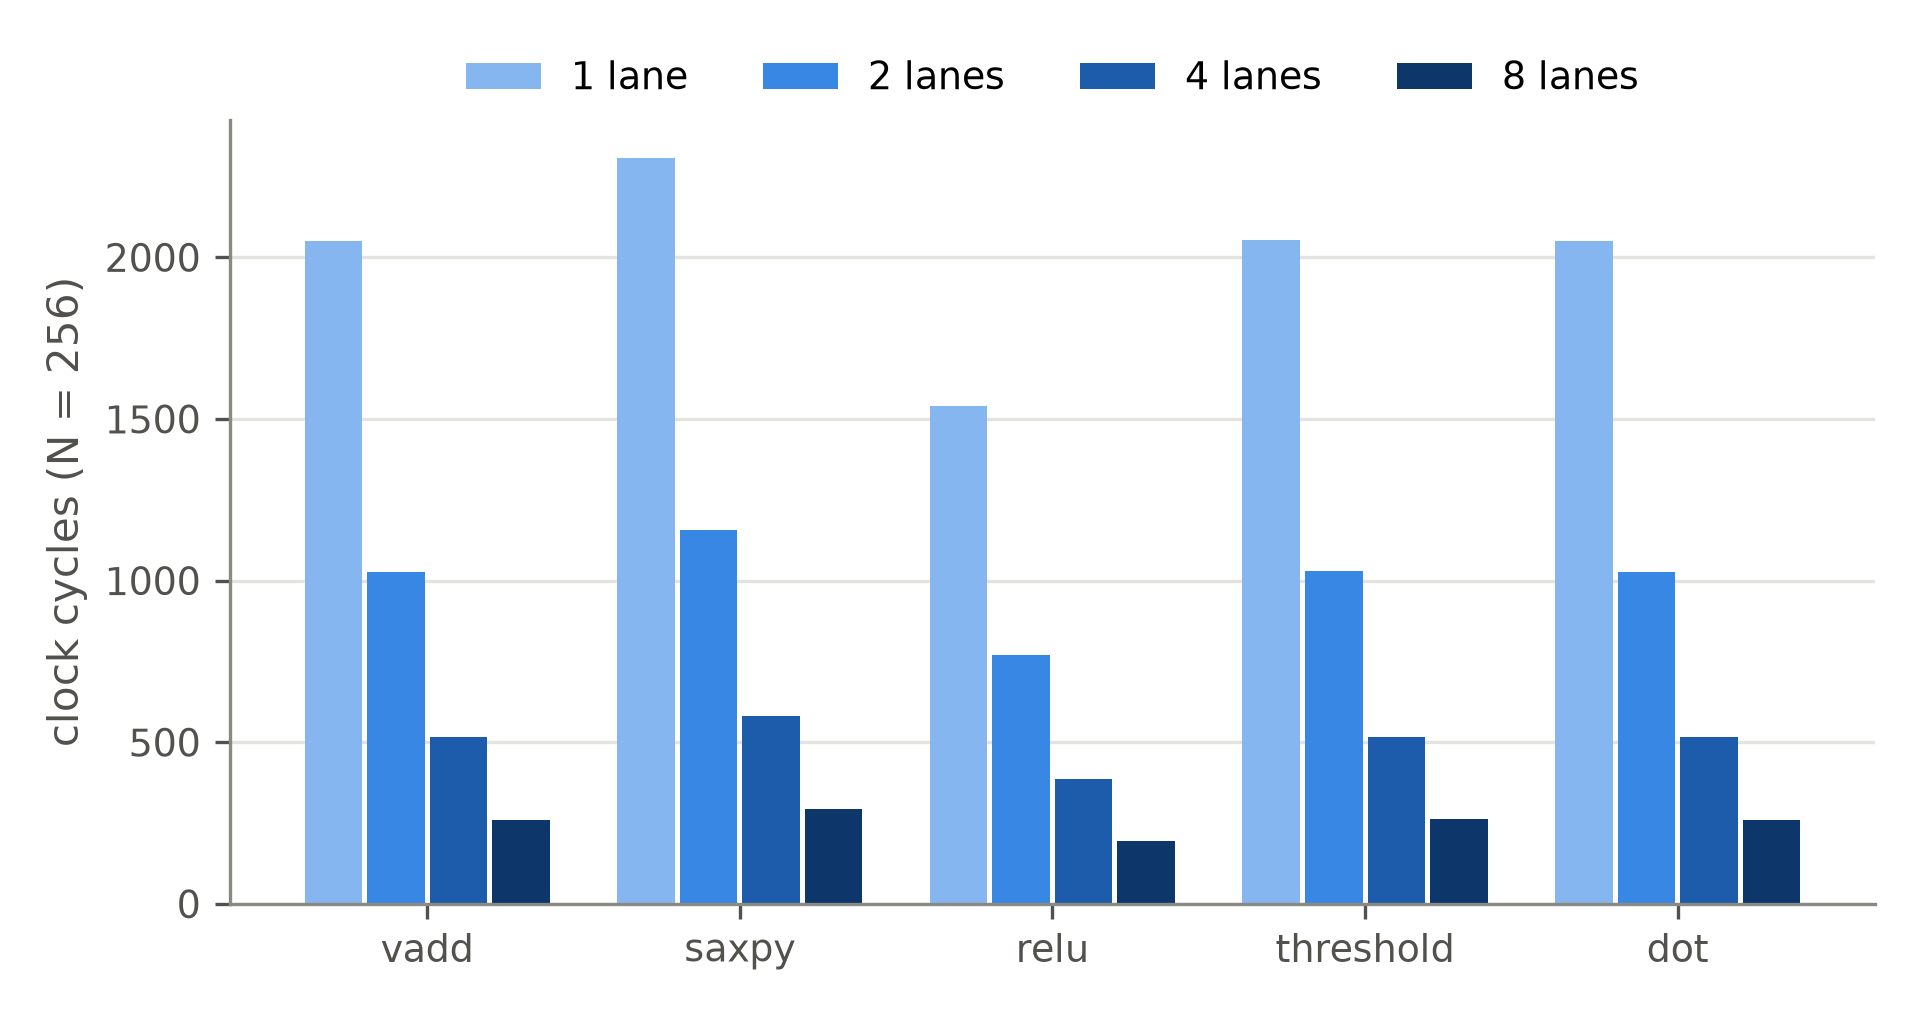
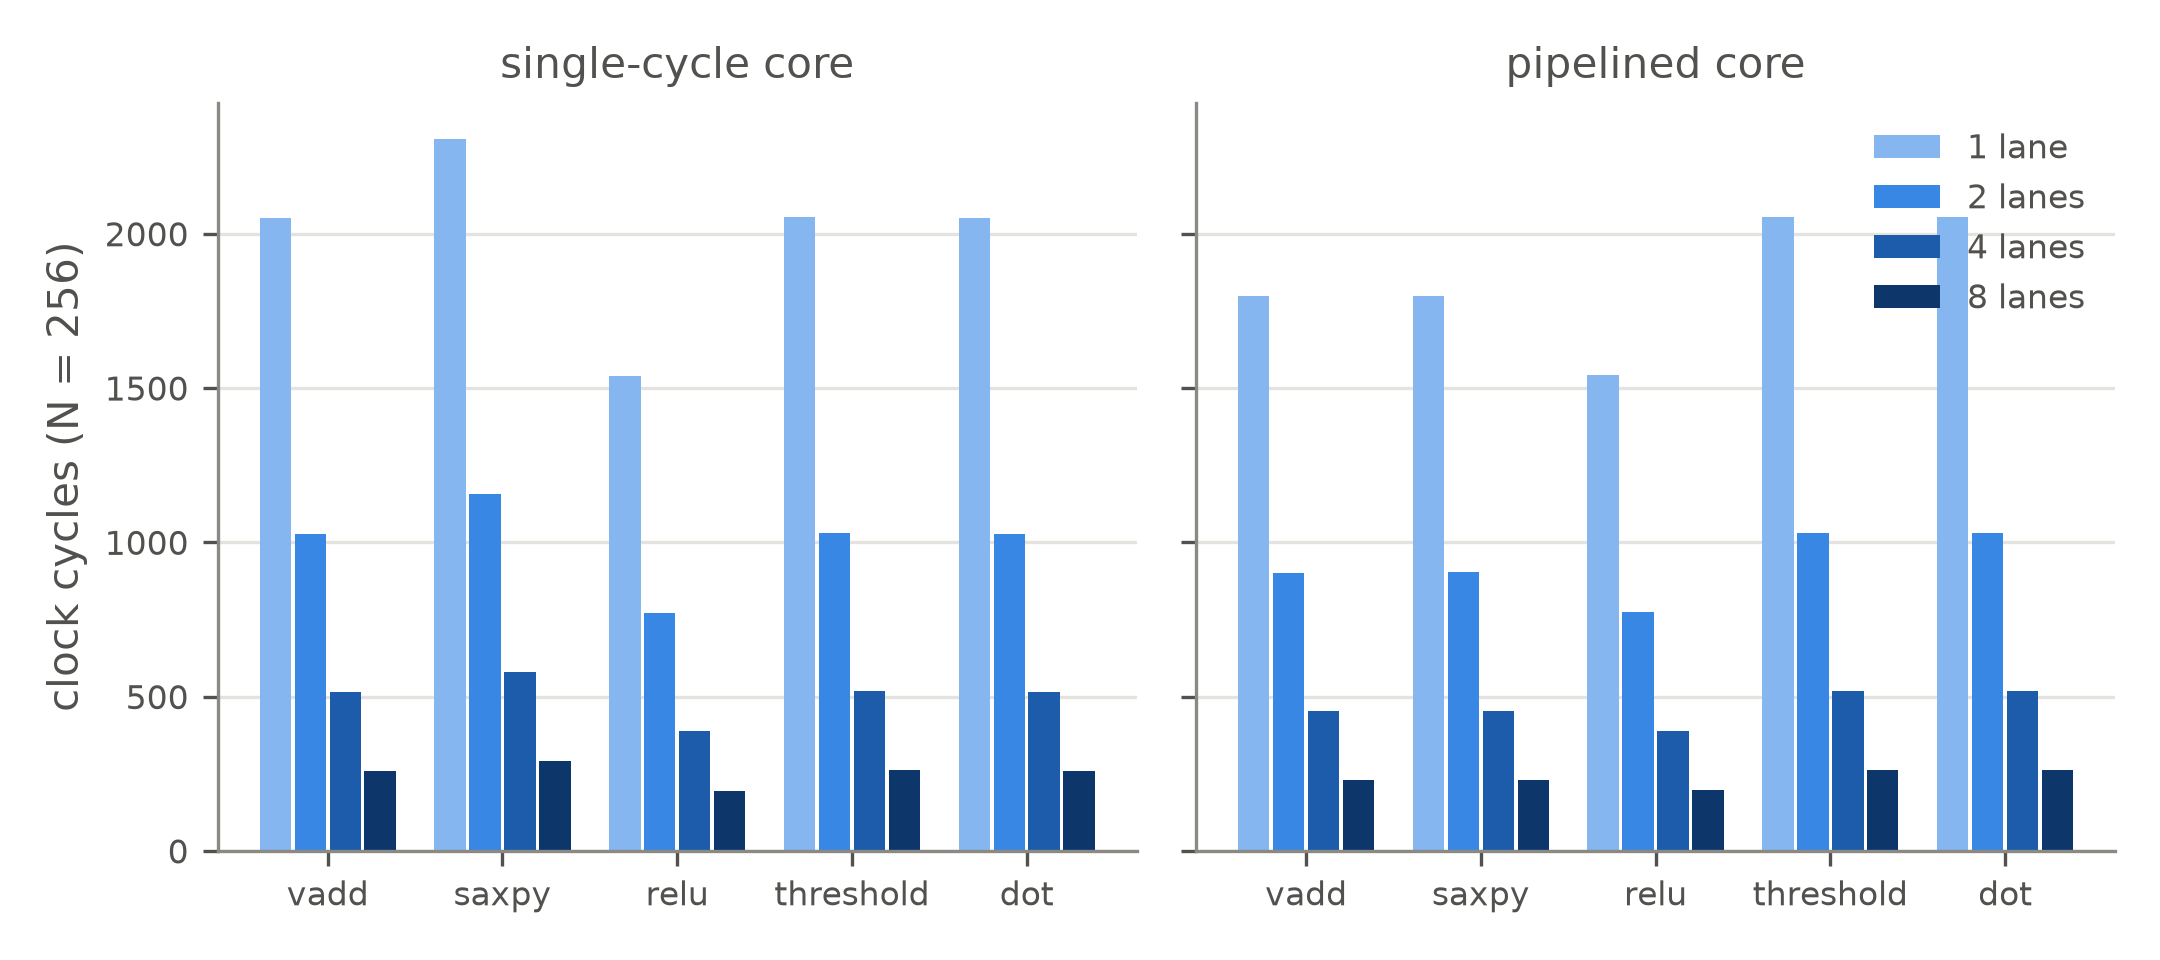
feat(sw): speed-up and performance figures for Phase 2
- Extend plot_perf.py to generate cycle breakdown, problem size, and unrolling figures.
- Calculate real-time speed-up using exact build Fmax from results/fpga_ecp5.csv.
- Generate figures in results/figures/.

Part of #24.

diff --git a/sw/plot_perf.py b/sw/plot_perf.py
@@ -1,13 +1,20 @@
 """
-plot_perf.py - figures for the scalar vs SIMD comparison.
+plot_perf.py - figures for the scalar vs SIMD and single-cycle vs pipelined
+comparison.
 
-Reads results/perf.csv (from run_workloads.py) and, if it exists,
-results/fpga_ecp5.csv (from syn/run_syn.py) and draws:
+Reads results/perf.csv (run_workloads.py), results/sweep.csv (sweep.py) and
+results/fpga_ecp5.csv (syn/run_syn.py) and draws:
 
-  results/figures/cycles.png   clock cycles per workload for 1, 2, 4, 8 lanes
-  results/figures/speedup.png  speed-up vs lanes: counted in clock cycles, and
-                               in real time once the clock speed of each
-                               design is taken into account
+  results/figures/cycles.png           clock cycles per workload, 1/2/4/8 lanes, one panel per core
+  results/figures/speedup.png          speed-up vs lanes: left in clock cycles (over 1 lane of the
+                                       same core), right in real time (over the Phase 1 scalar design)
+  results/figures/cycle_breakdown.png  where the clock cycles go at 8 lanes, one panel per core
+  results/figures/problem_size.png     speed-up of 8 lanes over 1 lane against the array size N
+  results/figures/unrolling.png        time per element: normal loops vs loops unrolled 4 times
+
+Real time = clock cycles / Fmax, with each design's own Fmax (median of the
+ECP5 place-and-route seeds). The single-cycle core is always blue and the
+pipelined core always orange, with different marker shapes, in every figure.
 
 Usage:  uv run --python 3.12 --with matplotlib python sw/plot_perf.py
 """
@@ -24,10 +31,18 @@ ROOT = Path(__file__).resolve().parent.parent
 RESULTS = ROOT / "results"
 FIGURES = RESULTS / "figures"
 
-# Colours from a colour-blind-safe palette.
-BLUE, ORANGE, GREY, INK = "#2a78d6", "#eb6834", "#8a8984", "#52514e"
+# Colours from a colour-blind-safe palette (checked with a CVD validator).
+BLUE, ORANGE, GREY, INK, GRID = "#2a78d6", "#eb6834", "#8a8984", "#52514e", "#e4e3df"
+CORES = [("single", "single-cycle", BLUE, "o"), ("pipe", "pipelined", ORANGE, "s")]
 LANE_SHADES = ["#86b6ef", "#3987e5", "#1c5cab", "#0d366b"]   # light -> dark = few -> many lanes
-WORKLOADS = ["vadd", "saxpy", "relu", "threshold", "dot"]    # isa_test is a coverage test, not a benchmark
+# Kinds of extra cycle, for the breakdown figure (base instructions are grey).
+EXTRA = [("loads", "load waits (single-cycle)", "#1baf7a"),
+         ("stalls", "stalls (pipelined)", "#eda100"),
+         ("guesses", "wrong branch guesses + fill (pipelined)", "#e87ba4")]
+
+# The benchmarks (isa_test is a coverage test; the unrolled programs have their own figure).
+BENCHMARKS = ["vadd", "saxpy", "relu", "threshold", "dot", "brighten", "abs", "sumpos"]
+PHASE1 = ["vadd", "saxpy", "relu", "threshold", "dot"]
 
 
 def read_csv(path):
@@ -40,74 +55,171 @@ def style(ax):
         ax.spines[side].set_visible(False)
     ax.spines["left"].set_color(GREY)
     ax.spines["bottom"].set_color(GREY)
-    ax.tick_params(colors=INK, labelsize=9)
-    ax.grid(axis="y", color="#e4e3df", linewidth=0.8)
+    ax.tick_params(colors=INK, labelsize=8)
+    ax.grid(axis="y", color=GRID, linewidth=0.8)
     ax.set_axisbelow(True)
+
+
+def save(fig, name):
+    fig.tight_layout()
+    fig.savefig(FIGURES / name, dpi=300)
+    plt.close(fig)
+
+
+def find(rows, **want):
+    """The one row whose columns match every given value."""
+    hits = [r for r in rows if all(str(r[k]) == str(v) for k, v in want.items())]
+    if len(hits) != 1:
+        raise KeyError(f"{len(hits)} rows match {want}")
+    return hits[0]
+
+
+def seconds(row, fmax):
+    """Run time of one row: cycles divided by that design's clock speed."""
+    return int(row["cycles"]) / (fmax[(row["core"], int(row["lanes"]))] * 1e6)
 
 
 def plot_cycles(perf):
     lanes_list = sorted({int(r["lanes"]) for r in perf})
-    fig, ax = plt.subplots(figsize=(6.4, 3.4))
+    fig, axes = plt.subplots(1, 2, figsize=(7.2, 3.2), sharey=True)
     width = 0.8 / len(lanes_list)
-    for j, lanes in enumerate(lanes_list):
-        values = [next(int(r["cycles"]) for r in perf if r["workload"] == w and int(r["lanes"]) == lanes)
-                  for w in WORKLOADS]
-        xs = [i + (j - (len(lanes_list) - 1) / 2) * width for i in range(len(WORKLOADS))]
-        ax.bar(xs, values, width * 0.92, color=LANE_SHADES[j], label=f"{lanes} lane{'s' if lanes > 1 else ''}")
-    ax.set_xticks(range(len(WORKLOADS)), WORKLOADS)
-    ax.set_ylabel("clock cycles (N = 256)", color=INK)
-    style(ax)
-    ax.legend(frameon=False, fontsize=9, ncol=4, loc="upper center", bbox_to_anchor=(0.5, 1.12))
-    fig.tight_layout()
-    fig.savefig(FIGURES / "cycles.png", dpi=300)
-    plt.close(fig)
+    for ax, (core, label, _, _) in zip(axes, CORES):
+        for j, lanes in enumerate(lanes_list):
+            values = [int(find(perf, workload=w, core=core, lanes=lanes)["cycles"]) for w in PHASE1]
+            xs = [i + (j - (len(lanes_list) - 1) / 2) * width for i in range(len(PHASE1))]
+            ax.bar(xs, values, width * 0.9, color=LANE_SHADES[j],
+                   label=f"{lanes} lane{'s' if lanes > 1 else ''}")
+        ax.set_xticks(range(len(PHASE1)), PHASE1)
+        ax.set_title(f"{label} core", color=INK, fontsize=10)
+        style(ax)
+    axes[0].set_ylabel("clock cycles (N = 256)", color=INK)
+    axes[1].legend(frameon=False, fontsize=8, labelcolor=INK)
+    save(fig, "cycles.png")
 
 
-def plot_speedup(perf, fpga):
+def plot_speedup(perf, fmax):
     lanes_list = sorted({int(r["lanes"]) for r in perf})
-    cycle_speedup = [statistics.mean(float(r["speedup"]) for r in perf
-                                     if r["workload"] in WORKLOADS and int(r["lanes"]) == n)
-                     for n in lanes_list]
+    fig, (left, right) = plt.subplots(1, 2, figsize=(7.2, 3.3))
 
-    fig, ax = plt.subplots(figsize=(6.4, 3.6))
-    ax.plot(lanes_list, lanes_list, linestyle="--", color=GREY, linewidth=1.5)
-    ax.annotate("ideal (= lanes)", (lanes_list[-1], lanes_list[-1]), textcoords="offset points",
-                xytext=(-8, 6), ha="right", color=INK, fontsize=9)
+    # Left: speed-up in clock cycles over 1 lane of the SAME core.
+    left.plot(lanes_list, lanes_list, linestyle="--", color=GREY, linewidth=1.2)
+    left.annotate("ideal", (5, 5), textcoords="offset points", xytext=(-6, 6),
+                  ha="right", color=INK, fontsize=8)
+    for core, label, colour, marker in CORES:
+        mean = [statistics.mean(float(find(perf, workload=w, core=core, lanes=n)["speedup"])
+                                for w in BENCHMARKS) for n in lanes_list]
+        left.plot(lanes_list, mean, marker=marker, markersize=6, color=colour, linewidth=2, label=label)
+        left.annotate(f"{mean[-1]:.2f}x", (lanes_list[-1], mean[-1]), textcoords="offset points",
+                      xytext=(6, -10 if core == "pipe" else 2), color=INK, fontsize=8)
+    left.set_title("In clock cycles, over 1 lane", color=INK, fontsize=10)
 
-    ax.plot(lanes_list, cycle_speedup, marker="o", markersize=7, color=BLUE, linewidth=2,
-            label="in clock cycles")
-    ax.annotate(f"{cycle_speedup[-1]:.2f}x", (lanes_list[-1], cycle_speedup[-1]),
-                textcoords="offset points", xytext=(8, -4), color=INK, fontsize=9)
+    # Right: speed-up in real time over the single-cycle core with 1 lane (the scalar baseline).
+    for core, label, colour, marker in CORES:
+        mean = [statistics.mean(seconds(find(perf, workload=w, core="single", lanes=1), fmax)
+                                / seconds(find(perf, workload=w, core=core, lanes=n), fmax)
+                                for w in BENCHMARKS) for n in lanes_list]
+        right.plot(lanes_list, mean, marker=marker, markersize=6, color=colour, linewidth=2, label=label)
+        right.annotate(f"{mean[-1]:.2f}x", (lanes_list[-1], mean[-1]), textcoords="offset points",
+                       xytext=(6, -3), color=INK, fontsize=8)
+    right.set_title("In real time, over single-cycle 1 lane", color=INK, fontsize=10)
 
-    if fpga:
-        fmax = {int(r["lanes"]): float(r["fmax_mhz_median"]) for r in fpga}
-        if 1 in fmax:
-            wall = [s * fmax[n] / fmax[1] for s, n in zip(cycle_speedup, lanes_list)]
-            ax.plot(lanes_list, wall, marker="s", markersize=7, color=ORANGE, linewidth=2,
-                    label="in real time (cycles x ECP5 Fmax)")
-            ax.annotate(f"{wall[-1]:.2f}x", (lanes_list[-1], wall[-1]),
-                        textcoords="offset points", xytext=(8, -4), color=INK, fontsize=9)
+    for ax in (left, right):
+        ax.set_xticks(lanes_list)
+        ax.set_xlabel("lanes", color=INK)
+        ax.set_xlim(0.5, lanes_list[-1] + 1.6)
+        ax.set_ylim(0, None)
+        style(ax)
+    left.set_ylabel("speed-up (mean of 8 workloads)", color=INK)
+    left.legend(frameon=False, fontsize=8, labelcolor=INK, loc="upper left")
+    save(fig, "speedup.png")
 
-    ax.set_xticks(lanes_list)
-    ax.set_xlabel("lanes", color=INK)
-    ax.set_ylabel("speed-up over 1 lane", color=INK)
-    ax.set_xlim(0.5, lanes_list[-1] + 1.2)
-    ax.set_ylim(0, lanes_list[-1] + 1)
-    style(ax)
-    ax.legend(frameon=False, fontsize=9, loc="upper left")
-    fig.tight_layout()
-    fig.savefig(FIGURES / "speedup.png", dpi=300)
+
+def plot_breakdown(perf):
+    fig, axes = plt.subplots(1, 2, figsize=(7.2, 3.3), sharey=True)
+    for ax, (core, label, _, _) in zip(axes, CORES):
+        rows = [find(perf, workload=w, core=core, lanes=8) for w in BENCHMARKS]
+        base = [int(r["instructions"]) for r in rows]
+        parts = {"loads": [int(r["loads"]) for r in rows],
+                 "stalls": [int(r["stalls"]) for r in rows],
+                 # every other extra cycle: wrong guesses plus the one fill cycle
+                 "guesses": [int(r["cycles"]) - int(r["instructions"]) - int(r["loads"]) - int(r["stalls"])
+                             for r in rows]}
+        xs = range(len(BENCHMARKS))
+        ax.bar(xs, base, 0.62, color=GREY, label="instructions", edgecolor="white", linewidth=1)
+        bottom = base[:]
+        for key, name, colour in EXTRA:
+            if any(parts[key]):
+                ax.bar(xs, parts[key], 0.62, bottom=bottom, color=colour, label=name,
+                       edgecolor="white", linewidth=1)
+                bottom = [b + p for b, p in zip(bottom, parts[key])]
+        ax.set_xticks(xs, BENCHMARKS, rotation=35, ha="right")
+        ax.set_title(f"{label} core, 8 lanes", color=INK, fontsize=10)
+        style(ax)
+    axes[0].set_ylabel("clock cycles (N = 256)", color=INK)
+    # One legend for both panels, above them, so it never covers a bar.
+    handles = [plt.Rectangle((0, 0), 1, 1, color=GREY)] + \
+              [plt.Rectangle((0, 0), 1, 1, color=c) for _, _, c in EXTRA]
+    names = ["instructions"] + [n for _, n, _ in EXTRA]
+    fig.legend(handles, names, loc="upper center", ncol=2, frameon=False, fontsize=8,
+               labelcolor=INK, bbox_to_anchor=(0.5, 1.0))
+    fig.tight_layout(rect=(0, 0, 1, 0.86))
+    fig.savefig(FIGURES / "cycle_breakdown.png", dpi=300)
     plt.close(fig)
+
+
+def plot_problem_size(sweep):
+    fig, ax = plt.subplots(figsize=(6.4, 3.4))
+    sizes = sorted({int(r["n"]) for r in sweep})
+    ax.axhline(8, linestyle="--", color=GREY, linewidth=1.2)
+    ax.annotate("ideal (8 lanes)", (sizes[0], 8), textcoords="offset points", xytext=(0, 4),
+                color=INK, fontsize=8)
+    for core, label, colour, marker in CORES:
+        for workload, dash in (("vadd", "-"), ("dot", ":")):
+            speed = [int(find(sweep, workload=workload, core=core, lanes=1, n=n)["cycles"])
+                     / int(find(sweep, workload=workload, core=core, lanes=8, n=n)["cycles"]) for n in sizes]
+            ax.plot(sizes, speed, linestyle=dash, marker=marker, markersize=5, color=colour,
+                    linewidth=2, label=f"{workload}, {label}")
+    ax.set_xscale("log", base=2)
+    ax.set_xticks(sizes, [str(n) for n in sizes])
+    ax.set_xlabel("numbers per array, N", color=INK)
+    ax.set_ylabel("speed-up of 8 lanes over 1 (cycles)", color=INK)
+    ax.set_ylim(0, 9)
+    style(ax)
+    ax.legend(frameon=False, fontsize=8, labelcolor=INK, loc="lower right")
+    save(fig, "problem_size.png")
+
+
+def plot_unrolling(perf, fmax):
+    programs = ["vadd", "vadd_unroll", "dot", "dot_unroll"]
+    fig, ax = plt.subplots(figsize=(6.4, 3.2))
+    width = 0.36
+    for k, (core, label, colour, _) in enumerate(CORES):
+        rows = [find(perf, workload=p, core=core, lanes=8) for p in programs]
+        ns = [seconds(r, fmax) * 1e9 / int(r["elements"]) for r in rows]
+        xs = [i + (k - 0.5) * (width + 0.03) for i in range(len(programs))]
+        ax.bar(xs, ns, width, color=colour, label=label)
+        for x, v in zip(xs, ns):
+            ax.annotate(f"{v:.1f}", (x, v), textcoords="offset points", xytext=(0, 2),
+                        ha="center", color=INK, fontsize=7)
+    ax.set_xticks(range(len(programs)), programs)
+    ax.set_ylabel("ns per element (8 lanes, N = 256)", color=INK)
+    style(ax)
+    ax.legend(frameon=False, fontsize=8, labelcolor=INK)
+    save(fig, "unrolling.png")
 
 
 def main():
     FIGURES.mkdir(parents=True, exist_ok=True)
     perf = read_csv(RESULTS / "perf.csv")
-    fpga_path = RESULTS / "fpga_ecp5.csv"
-    fpga = read_csv(fpga_path) if fpga_path.exists() else None
+    sweep = read_csv(RESULTS / "sweep.csv")
+    fmax = {(r["core"], int(r["lanes"])): float(r["fmax_mhz_median"])
+            for r in read_csv(RESULTS / "fpga_ecp5.csv")}
     plot_cycles(perf)
-    plot_speedup(perf, fpga)
-    print("wrote results/figures/cycles.png and results/figures/speedup.png")
+    plot_speedup(perf, fmax)
+    plot_breakdown(perf)
+    plot_problem_size(sweep)
+    plot_unrolling(perf, fmax)
+    print("wrote cycles, speedup, cycle_breakdown, problem_size and unrolling .png in results/figures/")
 
 
 if __name__ == "__main__":
